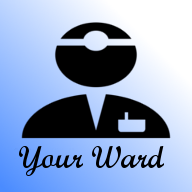
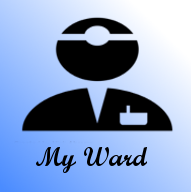
Changed home screen formatting

Changed region(s): [[0.0938, 0.0625, 0.9062, 0.9375], [0.9688, 0.625, 1.0, 1.0]]

diff --git a/www/css/style.css b/www/css/style.css
@@ -3,11 +3,11 @@
 
 body{
     cursor:url('http://ionicframework.comimg/finger.png');
-    
+
 }
 .star .item-content{
     background-color: #EEE8D6 !important;
-    
+
 }
 
 .splash{
@@ -30,6 +30,7 @@ body{
 
 .tagline{
     font-size: 1.4rem;
+    padding:0;
 }
 
 .branding p{
@@ -44,7 +45,7 @@ body{
 .bar-positive, .tabs-positive>.tabs{
     background-color: :#417D9A !important;
     border-color:#417D9a
-        
+
 }
 
 .item-thumbnail-left img{

diff --git a/www/templates/home.html b/www/templates/home.html
@@ -2,12 +2,10 @@
   <ion-content>
         <div class="branding">
             <img ng-src="img/cook.jpg" alt="James Cook">
-            <div class="tagline"><h1>My Ward My Handbook </h1></br>
-            Shane Lester 2016
+            <div class="tagline"><h2>My Ward My Handbook </h2></br>
+            <h4>Shane Lester 2016</h4>
             </div>
-          </br>
             <p>Helping you learn</p>
-
         </div>
   </ion-content>
 </ion-view>

diff --git a/README.md b/README.md
@@ -1,2 +1,4 @@
 # Handbook-ionic-working
 The working copy of the Handbook repository- config.xml allows working in Ionic Serve
+
+Copyright Shane Lester 2015
